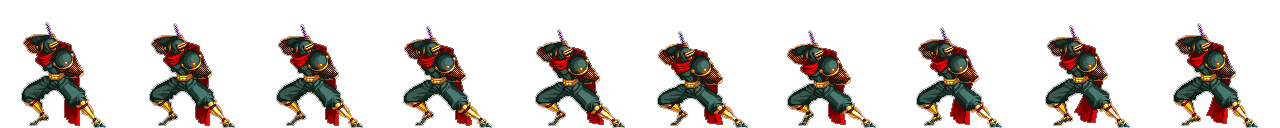
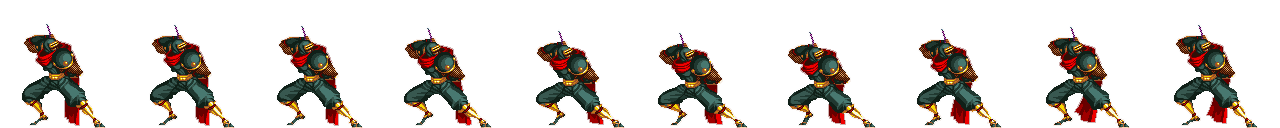
透過色の問題を見た。わからん。ぼちぼち別プロジェクトで研究する。

diff --git a/work_SNAProj/SpriteTest.cpp b/work_SNAProj/SpriteTest.cpp
@@ -5,21 +5,18 @@
 #include "InputMoveComponent.h"
 #include "BoxColliderComponent.h"
 
-Texture * defaultTex = nullptr;
-
 SpriteTest::SpriteTest():
 	Actor()
 {
 	MeshComponent * mc = new MeshComponent(this);
-	mMesh = System::GetInstance().GetRenderer()->GetMesh("Assets/Board.gpmesh", this);
+	mMesh = System::GetInstance().GetRenderer()->GetMesh("Assets/ninjastayOrigin.gpmesh", this);
 	if (mMesh != nullptr)
 	{
-		mMesh->LoadTexture("Assets/Cube.png", System::GetInstance().GetRenderer(), this);
+		mMesh->LoadTexture("Assets/NinjaStay.png", System::GetInstance().GetRenderer(), this);
+		mMesh->SetIsBoardFlagTrue();
 		mc->SetMesh(mMesh);
 	}
 
-	defaultTex = mMesh->GetTexture(this);
-	
 	//InputMoveComponent * imc = new InputMoveComponent(this);
 	//imc->SetVerticalAxis(InputMoveComponent::AxisEnum_z);
 	//imc->SetVerticalSpeed(imc->GetVerticalSpeed() * -1);
@@ -32,22 +29,6 @@ SpriteTest::SpriteTest():
 
 SpriteTest::~SpriteTest()
 {
-}
-
-void SpriteTest::UpdateActor0()
-{
-	if (defaultTex != mMesh->GetTexture(this))
-	{
-		SDL_Delay(0);
-	}
-}
-
-void SpriteTest::UpdateActor1()
-{
-	if (defaultTex != mMesh->GetTexture(this))
-	{
-		SDL_Delay(0);
-	}
 }
 
 void SpriteTest::OnHit(const ColliderComponentBase * caller, const ColliderComponentBase * opponent)

diff --git a/work_SNAProj/MeshComponent.cpp b/work_SNAProj/MeshComponent.cpp
@@ -58,8 +58,12 @@ void MeshComponent::Draw(Shader* shader)
 		{
 			glDisable(GL_DEPTH_TEST);
 			glEnable(GL_BLEND);
-			glBlendEquationSeparate(GL_FUNC_ADD, GL_FUNC_ADD);
-			glBlendFuncSeparate(GL_SRC_ALPHA, GL_ONE_MINUS_SRC_ALPHA, GL_ONE, GL_ZERO);
+			glDepthMask(GL_FALSE);
+
+			glBlendFunc(GL_SRC_ALPHA, GL_ONE_MINUS_SRC_ALPHA);
+
+			//glBlendEquationSeparate(GL_FUNC_ADD, GL_FUNC_ADD);
+			//glBlendFuncSeparate(GL_SRC_COLOR, GL_DST_COLOR, GL_SRC_ALPHA, GL_ONE_MINUS_SRC_ALPHA);
 
 			forBoardSetting = true;
 		}
@@ -68,7 +72,7 @@ void MeshComponent::Draw(Shader* shader)
 		{
 			glEnable(GL_DEPTH_TEST);
 			glDisable(GL_BLEND);
-
+			glDepthMask(GL_TRUE);
 			forBoardSetting = false;
 		}
 

diff --git a/work_SNAProj/Mesh.h b/work_SNAProj/Mesh.h
@@ -52,6 +52,8 @@ public:
 
 	bool GetIsBoardFlag() const { return mFlags & mIsBoardFlagMask; }
 
+	void SetIsBoardFlagTrue() { mFlags |= mIsBoardFlagMask; }
+
 	void DuplicateDefaultTexture(const Actor * actor) { mCurrentTexture[actor] = mDefaultTexture[actor] = mDefaultTexture.begin()->second; }
 
 private:

diff --git a/work_SNAProj/SpriteTest.h b/work_SNAProj/SpriteTest.h
@@ -9,9 +9,6 @@ public:
 	SpriteTest();
 	~SpriteTest();
 
-	void UpdateActor0() override;
-	void UpdateActor1() override;
-
 private:
 	void OnHit(const ColliderComponentBase * caller, const ColliderComponentBase * opponent) override;
 
